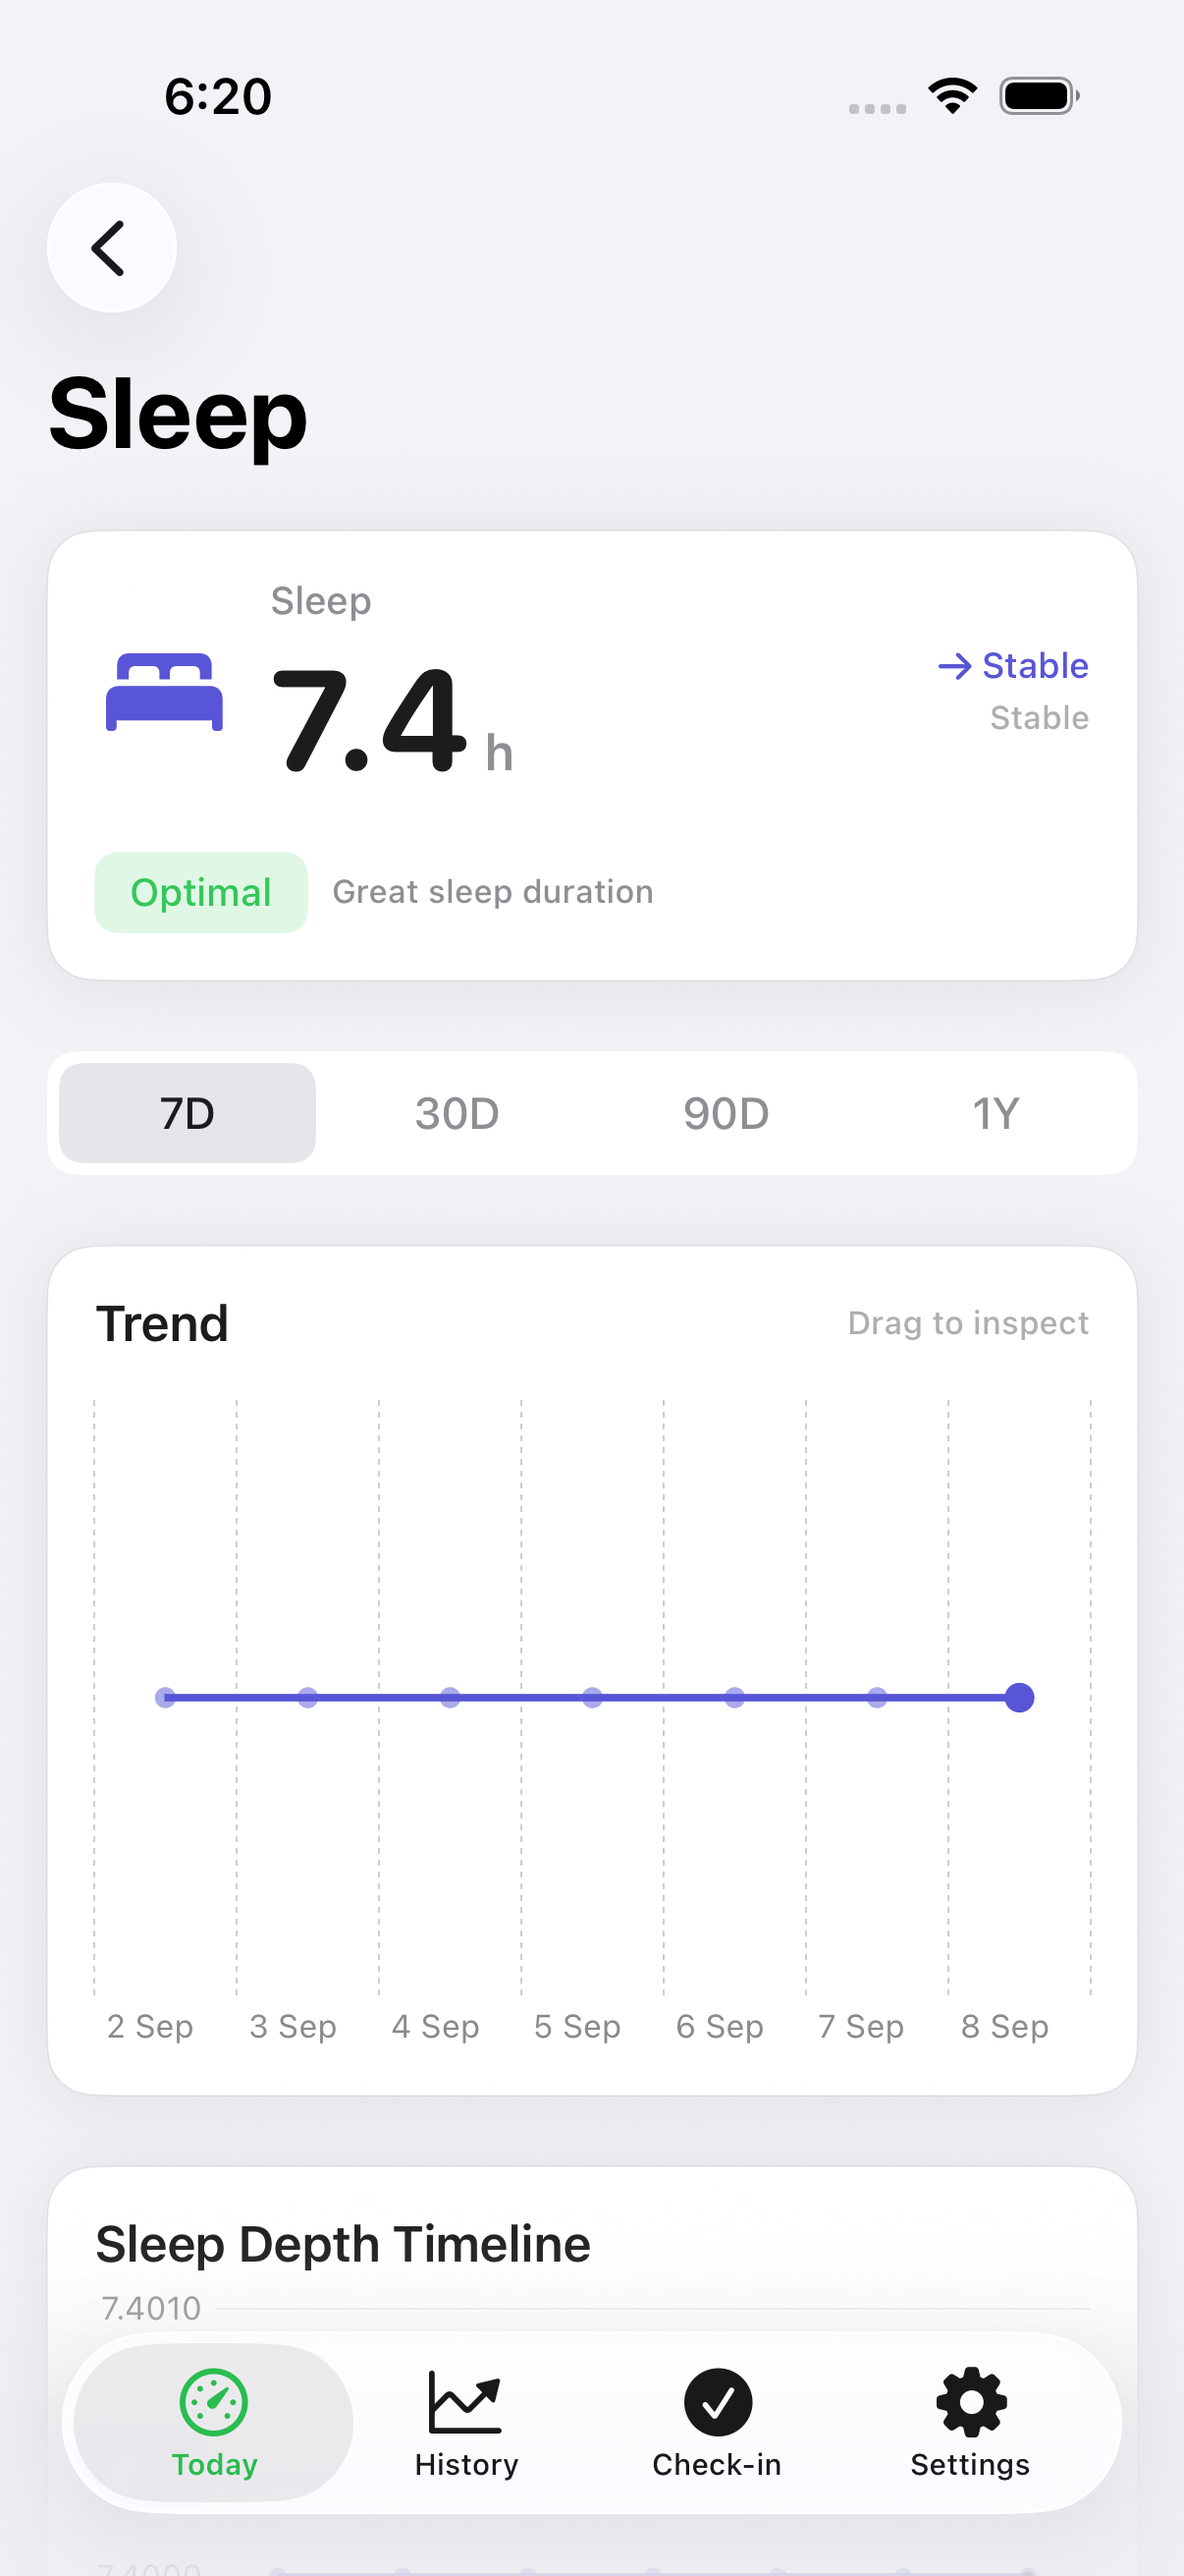
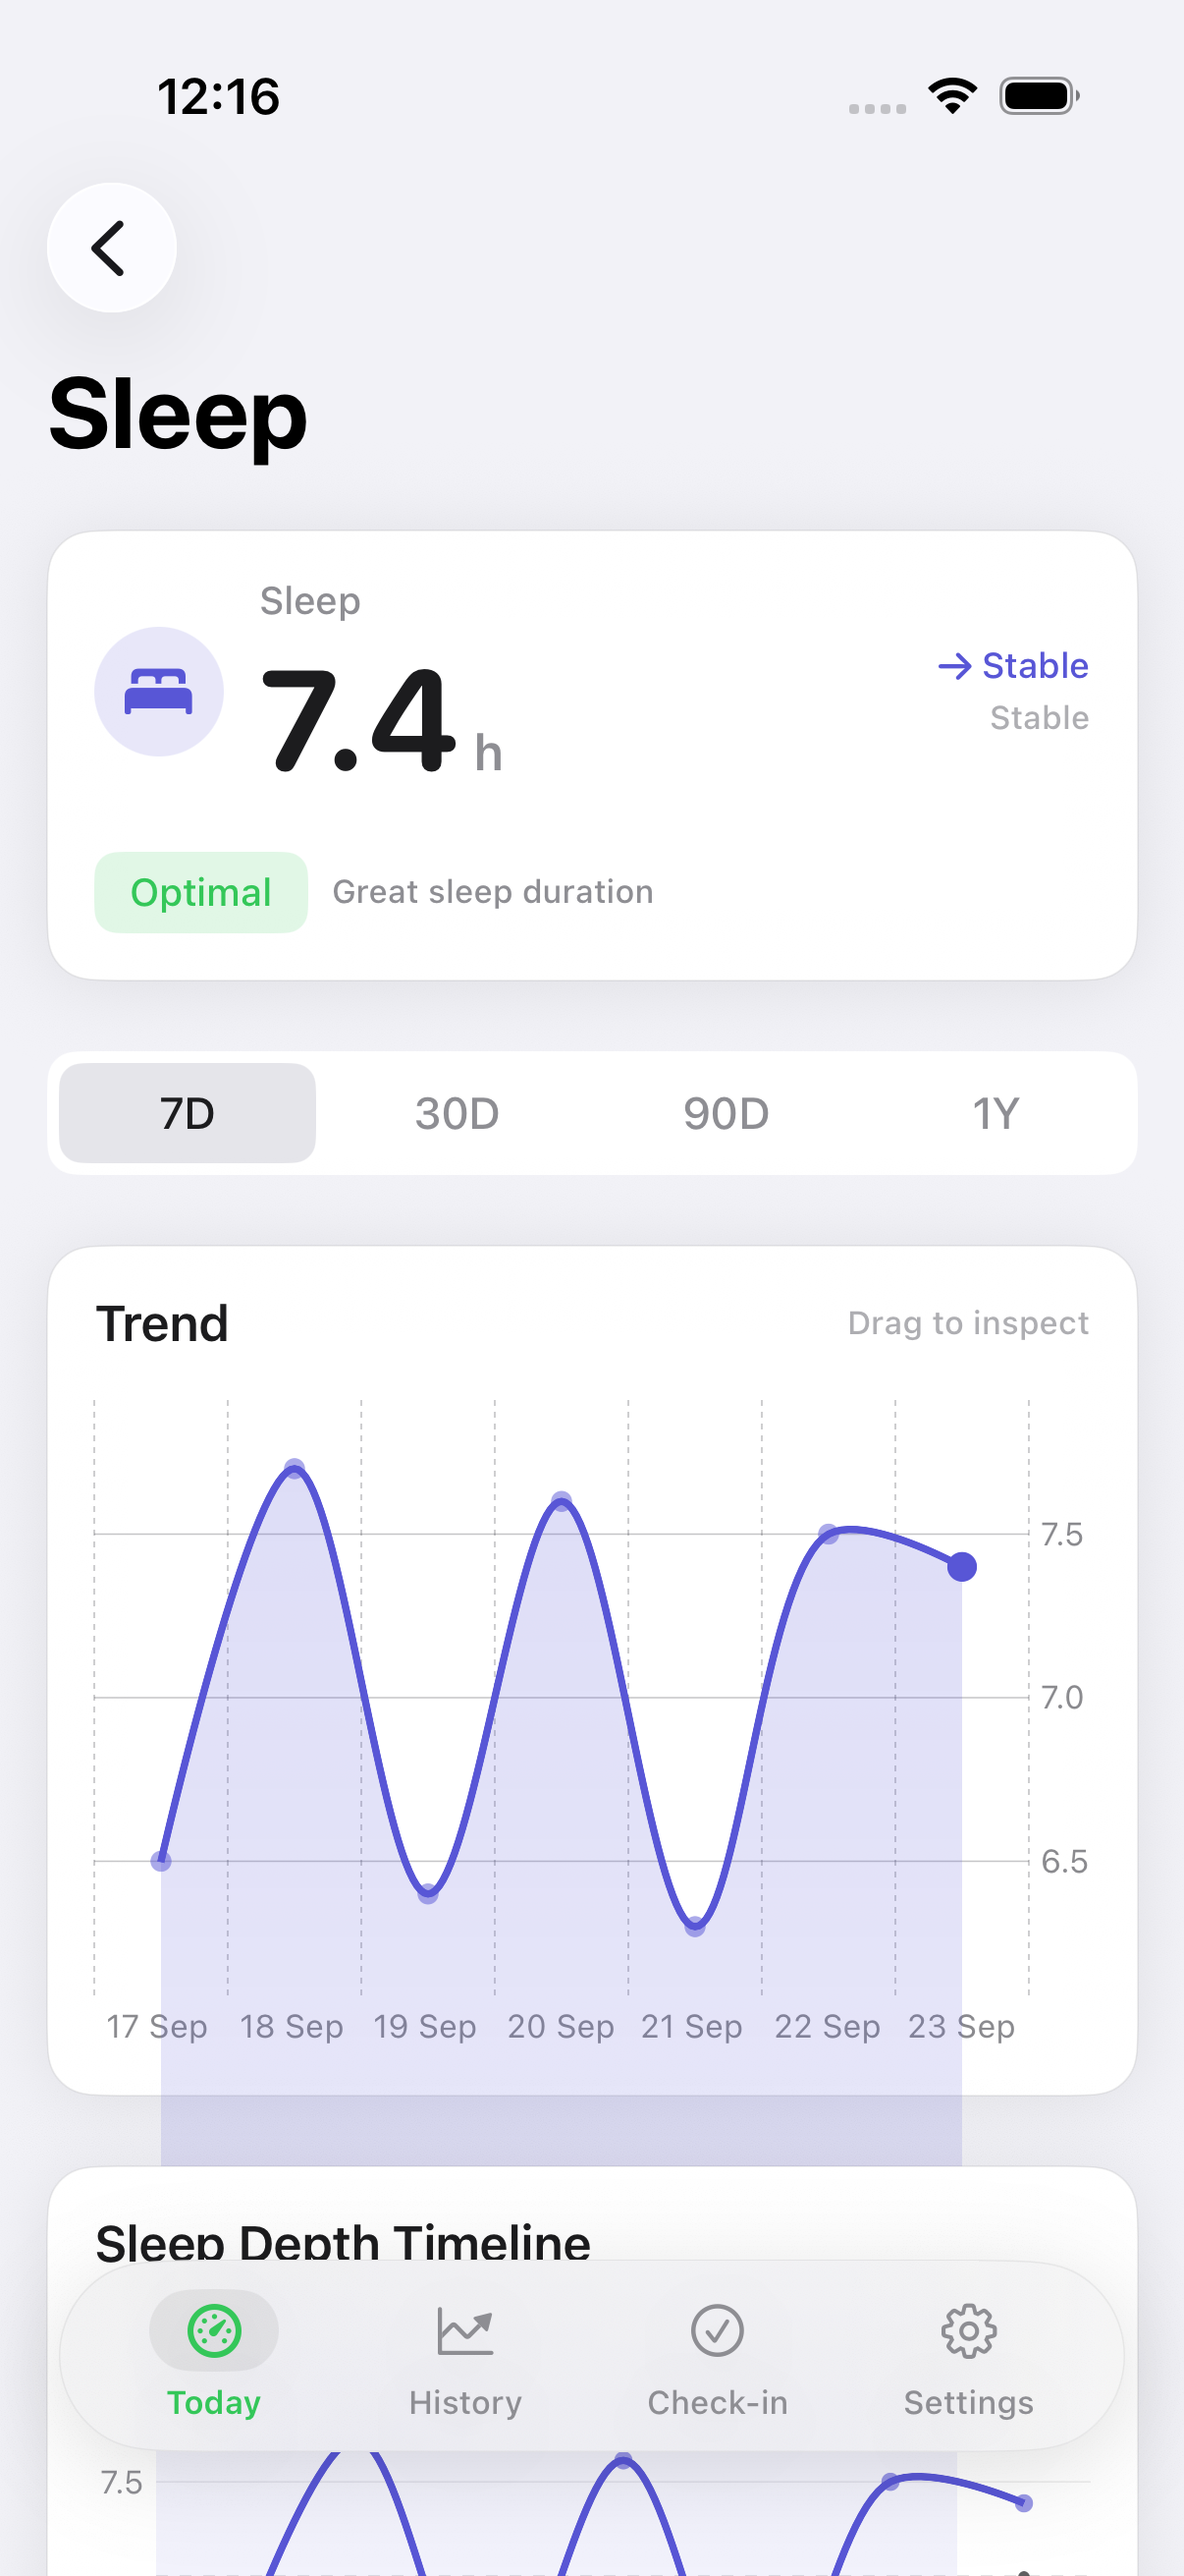
feat(metrics): Apple Metric Detail hero circular well (Honest #80) (#98)
Circular tint well on Metric Detail hero icon; refresh scrub audit PNG.

diff --git a/ReadinessTracker/Views/MetricDetailView.swift b/ReadinessTracker/Views/MetricDetailView.swift
@@ -125,9 +125,14 @@ struct MetricDetailView: View {
         NativeCard {
             VStack(spacing: 16) {
                 HStack(spacing: 12) {
+                    // Honest #80: Apple circular tint well on Metric Detail hero.
                     Image(systemName: metric.icon)
-                        .font(.system(size: 32))
-                        .foregroundColor(metric.color)
+                        .font(.system(size: 18, weight: .semibold))
+                        .foregroundStyle(metric.color)
+                        .frame(width: 44, height: 44)
+                        .background(metric.color.opacity(0.14))
+                        .clipShape(Circle())
+                        .accessibilityHidden(true)
 
                     VStack(alignment: .leading, spacing: 4) {
                         Text(metric.title)

diff --git a/ReadinessTrackerUITests/SurfacesUITests.swift b/ReadinessTrackerUITests/SurfacesUITests.swift
@@ -439,6 +439,7 @@ final class SurfacesUITests: XCTestCase {
     }
 
     func testMetricDetailChartScrubSurface() throws {
+        // Honest #80: Metric Detail hero circular tint well.
         // Today → Metrics → Sleep card → MetricDetailView (period selector + ChartScrubSelection).
         revealText("Metrics")
         let sleepCard = app.descendants(matching: .any)["metric.card.Sleep"].firstMatch

diff --git a/.cursor/skills/verify-readiness-tracker/features/metric-detail-hero-well.md b/.cursor/skills/verify-readiness-tracker/features/metric-detail-hero-well.md
@@ -1,0 +1,17 @@
+# Metric Detail hero well
+
+## Sub-features
+- Metric Detail hero icon
+- Circular tint SF Symbol well
+
+## How to get to it (user POV)
+1. Today Metrics tile → Metric Detail
+2. Hero icon sits in a circular tint well
+
+## Driving it with the harness
+- UITest: `SurfacesUITests.testMetricDetailClassicScrubSurface` (or scrub sibling)
+- Captures `.audit/verify-metric-detail-classic-scrub.png`
+
+## Gotchas
+- Keep large value + unit + trend arrow
+- Do not invent Fitness+ chrome

diff --git a/.cursor/skills/verify-readiness-tracker/features/README.md b/.cursor/skills/verify-readiness-tracker/features/README.md
@@ -13,3 +13,4 @@
 | Today Journal button well | `journal-button-well.md` | book.closed circular well |
 | Today QuickTrend wells | `quick-trend-wells.md` | Quick Trends circular wells |
 | Day Detail wells | `day-detail-wells.md` | Stage/metric circular wells |
+| Metric Detail hero well | `metric-detail-hero-well.md` | Hero circular well |
